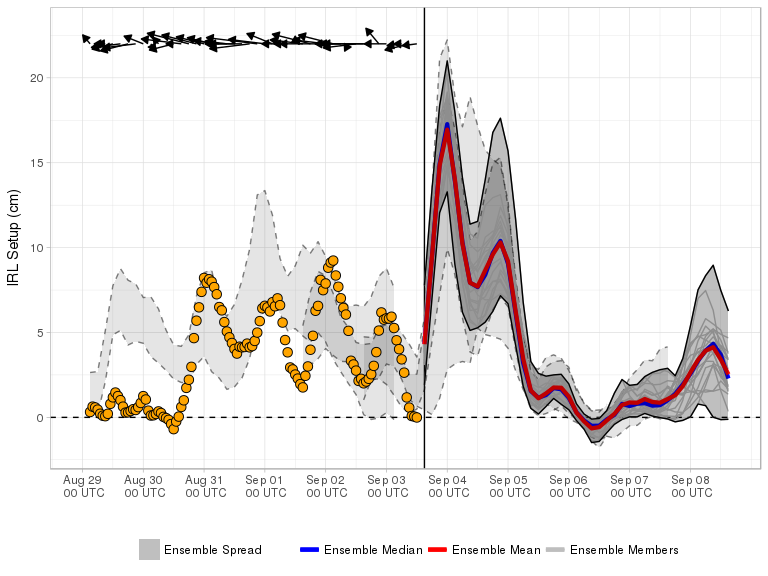
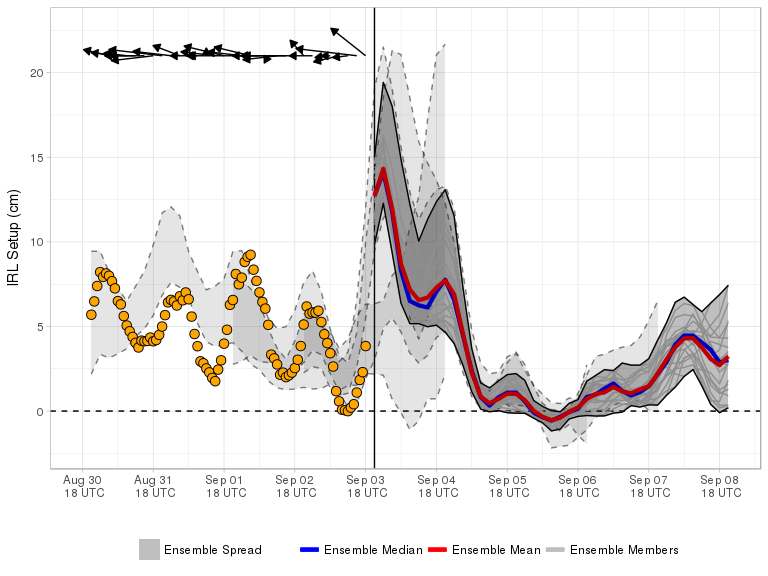
Forecast Update

diff --git a/docs/index.md b/docs/index.md
@@ -1,9 +1,9 @@
-Current Forecast 2018-09-03, Cycle 06 UTC
+Current Forecast 2018-09-03, Cycle 12 UTC
 -----------------------------------------
 
 [![](img/raw_setup.png)](https://fit-winds.github.io/IRLSetup/img/raw_setup.png)
 
-> Forecast valid 2018-09-03 08:22:39.
+> Forecast valid 2018-09-03 14:25:19.
 
 Explanation
 -----------
@@ -23,7 +23,7 @@ Ensemble Forecast System
 cycles. Calculation of the IRL setup is performed shortly after a new
 GEFS cycle is made available on the [data access
 link](http://www.ftp.ncep.noaa.gov/data/nccf/com/gens/prod/). The
-current cycle 2018-09-03 06 UTC 0.5° GEFS mean and median forecasts of
+current cycle 2018-09-03 12 UTC 0.5° GEFS mean and median forecasts of
 setup are represented by the red and blue curves, respectively. Ensemble
 spread from the current and three previous GEFS runs are shaded grey and
 bounded by solid and dashed curves, respectively.
